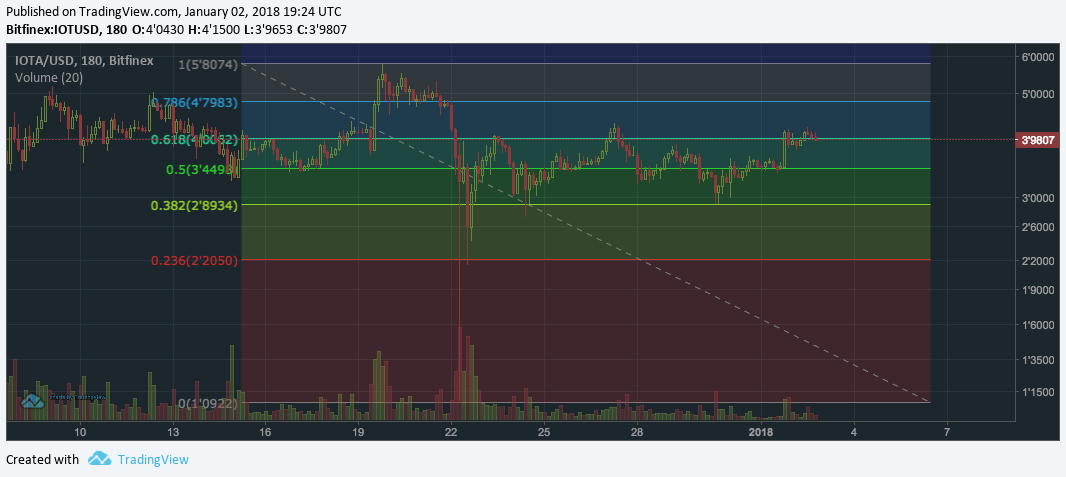
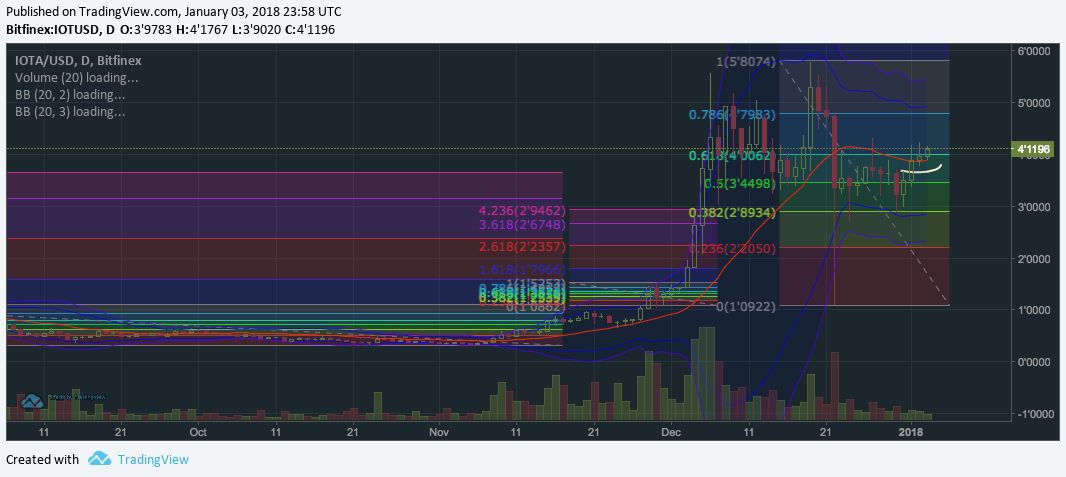
.

diff --git a/_layouts/review.html b/_layouts/review.html
@@ -1,0 +1,179 @@
+---
+layout: default-news
+---
+
+<div class="container">
+  <div class="row">
+
+   <div class="eight columns post-content">
+     <div class="shifted-left">
+       {{ site.ads.aads728 }}
+     </div>
+       {% if page.stories %}<div class="google-news-tag">{{ page.genres }}</div>&nbsp;{% endif %}
+       <span id="note">
+         {% if page.update %}<time datetime="{{ page.update | date_to_xmlschema }}">Last Update {{ page.update | date: "%d %b %Y at %R" }} UTC</time>.&nbsp;{% endif %}
+         Published <time datetime="{{ page.date | date_to_xmlschema }}">{{ page.date | date: "%d %b %Y at %R" }} UTC</time>
+         {% if page.author %}<span class="guest">&nbsp;&middot;&nbsp;By <a rel="nofollow" target="_blank" href="{{ page.author }}">{{ page.author_name }}</a></span>{% endif %}
+         {% if page.guest %}<span class="guest">&nbsp;&middot;&nbsp;Guest post by <a rel="nofollow" target="_blank" href="{{ page.author }}">{{ page.author_name }}</a></span>{% endif %}
+       </span>
+       <h4 class="post post-main">
+          <strong>
+            {{ page.title }}
+          </strong>
+        </h4>
+        {% if page.german %}
+          <h5 class="post post-main">
+            <a rel="nofollow" href="https://de.altcointrading.net/{{page.german}}">
+              READ THIS ARTICLE IN GERMAN
+            </a>
+          </h5>
+        {% endif %}
+        <br>
+        <article class="maincontent">
+          <div>
+            {% amp700 border {{page.image[0]}} {{page.image_alt[0]}} %}
+          </div>
+          <p>
+            <em>
+              Image: {{page.image_alt[0]}}
+            </em>
+          </p>
+          <p>
+            <em>
+              <a title="{{ site.title }} Subscribe" target="_blank" href="http://altcointrading.us15.list-manage1.com/subscribe?u=b5cca524e997c8e12f8ad51e1&id=9b56578f1c">Subscribe to the Altcoin Trading newsletter.</a> (Newsletter <a target="_blank" href="http://us15.campaign-archive1.com/home/?u=b5cca524e997c8e12f8ad51e1&id=9b56578f1c">Archive</a>)
+            </em>
+          </p>
+          <hr>
+          <div>
+            {{ site.ads.binance728 }}
+          </div>
+          <div>
+            {{ content | replace: 'Coinbase ', site.ref.coinbase | replace: 'BitMEX ', site.ref.bitmex | replace: 'Ledger wallet ', site.ref.ledger | replace: '<a href="http', '<a rel="nofollow" target="_blank" href="http' }}
+          </div>
+          {% if page.review %}
+          <div>
+            {% for item in page.review %}
+
+            {% if item.pic %}
+            <a rel="nofollow" target="_blank" href="{{item.link}}">
+            <figure class="border">
+              <amp-img itemprop="image" src="{{ item.pic }}" alt="{{item.name}} Review - Altcoin Trading" layout="responsive" width="700px" height="360px">
+              </amp-img>
+            </figure>
+            </a>
+            {% endif %}
+
+
+            <h4>{{ item.name }}</h4>
+
+            {% if item.rating %}<p><strong>Overall Rating:</strong> {{ item.rating }}</p>{% endif %}
+            {% if item.bestfor %}<p><strong>Best for:</strong> {{ item.bestfor }}</p>{% endif %}
+            {% if item.signup %}<p><strong>Sign-up:</strong> <a rel="nofollow" target="_blank" href="{{item.link}}">Sign up here.</a>&nbsp;{{ item.signup }}</p>{% endif %}
+            {% if item.comment %}<p>{{ item.comment }}</p>{% endif %}
+
+            <p>
+              <hr>
+            </p>
+
+            {% endfor %}
+          </div>
+          {% endif %}
+          <p>
+            <hr>
+          </p>
+          <p>
+            <em>
+              Join our Telegram group: <a title="{{ site.title }} Telegram" target="_blank" href="https://t.me/altcointrading_net"><i class="fa fa-telegram"></i> altcointrading_net</a>
+            </em>
+
+          </p>
+          <p>
+            <em>
+              Subreddit: <a title="{{ site.title }} Reddit" target="_blank" href="https://reddit.com/r/altcointrader"><i class="fa fa-reddit"></i> r/altcointrader</a>
+            </em>
+
+          </p>
+          <p>
+            <hr>
+            <ul class="social">
+              <li>
+                <a title="Share {{ page.title }} on Facebook" href="https://www.facebook.com/sharer.php?u={{ site.url }}{{ site.baseurl }}{{ page.url }}" title="Facebook" target="_blank">
+                  <i class="fa fa-facebook-square"></i>
+                </a>
+              </li>
+              <li>
+                <a title="Share {{ page.title }} on Twitter" href="https://twitter.com/share?url={{ site.url }}{{ site.baseurl }}{{ page.url }}" title="Twitter" target="_blank">
+                  <i class="fa fa-twitter-square"></i>
+                </a>
+              </li>
+              <li>
+                <a title="Share {{ page.title }} on Linkedin" href="https://www.linkedin.com/shareArticle?mini=true&url={{ site.url }}{{ site.baseurl }}{{ page.url }}" title="Linkedin" target="_blank">
+                  <i class="fa fa-linkedin-square"></i>
+                </a>
+              </li>
+            </ul>
+            <hr>
+            {% if page.stories %}
+            <p>
+              <a title="Author of {{ page.title }} {{ page.author }}" rel="nofollow" target="_blank" href="{{ page.author }}">Author</a> | Filed under <strong>{{ page.genres }}</strong> {% if page.tickers %}| Related tickers: <strong>{{ page.tickers }}</strong>{% endif %}
+            </p>
+
+            <script type="application/ld+json">
+            {
+              "@context": "http://schema.org",
+              "@type": "Person",
+              "name": "{{ page.author_name }}",
+              "url": "https://www.altcointrading.net",
+              "sameAs": [
+                "{{ page.author }}"
+              ]
+            }
+            </script>
+
+            {% endif %}
+            <p>
+              <a title="Typo {{ page.title }}" href="mailto:info@altcointrading.net">Report typo or misinformation</a>
+            </p>
+          </p>
+
+          {% if page.comments %}
+
+          <h4 class="post comment" id="disqus_embed">Comment on "{{ page.title }}"</h4>
+
+          <div id="disqus_thread"></div>
+          <script>
+
+          var disqus_config = function () {
+          this.page.url = "{{site.url}}{{page.url}}";  // Replace PAGE_URL with your page's canonical URL variable
+          this.page.identifier = "{{page.identifier}}"; // Replace PAGE_IDENTIFIER with your page's unique identifier variable
+          };
+
+          (function() { // DON'T EDIT BELOW THIS LINE
+          var d = document, s = d.createElement('script');
+          s.src = 'https://altcointrading.disqus.com/embed.js';
+          s.setAttribute('data-timestamp', +new Date());
+          (d.head || d.body).appendChild(s);
+          })();
+          </script>
+          <noscript>Please enable JavaScript to view the <a href="https://disqus.com/?ref_noscript">comments powered by Disqus.</a></noscript>
+
+          <p></p>
+
+          {% else %}
+
+          <p>&nbsp;</p>
+
+          <hr>
+
+          <p>Comments are disabled for this post.</p>
+
+          <hr>
+
+          {% endif %}
+
+        </article>
+    </div>
+    <div class="four columns nomargintop">
+      {% include sidebar.html %}
+    </div>
+  </div>

diff --git a/_includes/latestfibs.html b/_includes/latestfibs.html
@@ -5,13 +5,13 @@
   <div class="columns twelve">
     <h5 class="post">
       <strong>
-        <a class="sidebar-internal" target="_blank" title="{{ post.title }}" href="{{ site.baseurl }}{{ post.url }}">
+        <a class="sidebar-internal" title="{{ post.title }}" href="{{ site.baseurl }}{{ post.url }}">
           <span class="tag custom-note">TRADING</span>&nbsp;{{ post.title }}
         </a>
       </strong>
     </h5>
   </div>
-  <a class="sidebar-internal" target="_blank" href="{{ site.baseurl }}{{ post.url }}" title="{{ post.title }}">
+  <a class="sidebar-internal" href="{{ site.baseurl }}{{ post.url }}" title="{{ post.title }}">
    <div class="columns twelve relative">
     {% if post.image[0] %}
     <div class="twelve columns">

diff --git a/_layouts/fibs.html b/_layouts/fibs.html
@@ -63,6 +63,8 @@ layout: default-news
 
               <section>
 
+                <p>This is a new section on AltcoinTrading that will have only USD and BTC charts from Bitfinex for selected cryptocurrencies with Fib retracements drawn on them and some brief commentary. It's going to be updated often but it will stay under this current link so you can bookmark it to check for updates. The latest update date will always be in the headline.</p>
+
                 {{ content | replace: 'BitMEX ', site.ref.bitmex | replace: 'Ledger wallet ', site.ref.ledger | replace: '<a href="http', '<a rel="nofollow" target="_blank" href="http' }}
 
               </section>

diff --git a/_fibs/daily.md b/_fibs/daily.md
@@ -1,7 +1,7 @@
 ---
 published: true
 date: 2017-12-27 10:36:00 +0100
-update: 2018-01-03 01:32:00 +0100
+update: 2018-01-04 03:52:00 +0100
 
 layout: fibs
 title: "Fib Levels for Crypto Markets"
@@ -18,23 +18,24 @@ image: ["/strat/finexfibs.png"]
 
 dollars:
 
-- { market: "ETHUSD", chart: "/fibs/ethusd.png", comment: "ETH is still fighting the ATH resistance but you know that bull run usually doesn't stop there when a coin is bullish." }
-- { market: "XRPUSD", chart: "/fibs/xrpusd.png", comment: "XRP is going for it agai although it is moving along the stdev 2 bband which means the bull is weaker. Looking at shorter timeframes though, there will be a place to call tops but it's likely too soon just yet. There has been a rumor that Coinbase is going to list it, with how much it surged it will be interesting to see if they'll want to deal with another insider trading allegations." }
-- { market: "BTCUSD", chart: "/fibs/btcusd.png", comment: "Bitcoin started showing some bull momentum today, broke up through a first line of resistance and is hanging there at the moment. Next big decision will be whether it will break above the .618 fib (around 16.4k). By the way, watching Bitfinex orderbook has been fun today. Someone was really going for it." }
-- { market: "IOTUSD", chart: "/fibs/iotusd.png", comment: "IOTA is waking up, let's see how it holds." }
+- { market: "ETHUSD", chart: "/fibs/ethusd.png", comment: "Broke out and trading above $900. Next fib stop is at $1091." }
+- { market: "XRPUSD", chart: "/fibs/xrpusd.png", comment: "Ripple broke up above the next fib resistance. It should now consolidate a bit." }
+- { market: "BTCUSD", chart: "/fibs/btcusd.png", comment: "Bitcoin dumped on the news about China a bit, and has just about recovered. The market is not at its strongest and currently sitting under plenty of resistance (and under the MA in the center of the bbands on 1D)." }
+- { market: "IOTUSD", chart: "/fibs/iotusd.png", comment: "IOTA is still waking up, so far holding the positive trend. The moving average (bbands middle band) is curving up on the daily which is bullish, the consolidation phase should be soon over. It is also the place where some bots detect the curving and start going long before everybody else does on a confirmation so this is an ideal place for some FOMO pump and then some stop-hunt." }
+- { market: "NEOUSD", chart: "/fibs/neousd.png", comment: "Someone commented I should add NEO, here it is. So, NEO has broken ATH resistance and retraced to confirm it - very bullish. The next fib is roughly at $116 however the market surged too fast. These coins will have this 'joint action' together with ETH and perhaps EOS for some time, maybe for the all of 2018 - the action is based on similarity of attributes of those coins: The value propositions are similar but there are no clear signs as to which one is the actual leader. Technically, it is usually a good place for a bit of sideways when the daily comes over the outer bband (stdev 3)." }
 ratios:
-- { market: "ETHBTC", chart: "/fibs/ethbtc.png", comment: "The ratio retraced when BTC started surging couple hours ago but it didn't go below that fib it just broke, it merely retested it and bounced. That's positive." }
+- { market: "ETHBTC", chart: "/fibs/ethbtc.png", comment: "Making new highs, trend is positive. Next stops for some consolidation are (roughly) 0.07, 0.08 and 0.09." }
+- { market: "EOSBTC", chart: "/fibs/eosbtc.png", comment: "Update on EOS - the trend of the BTC ratio is still positive but still not out of the woods: that resistance hasn't been broken." }
 ---
 
 
-This is a new section on AltcoinTrading that will have only USD and BTC charts from Bitfinex for selected cryptocurrencies with Fib retracements drawn on them and some brief commentary. It's going to be updated often but it will stay under this current link so you can bookmark it to check for updates. The latest update date will always be in the headline.
-
 > Relevant news for today
 
-* There's a [new subreddit dedicated to Bitcoin forks](https://www.reddit.com/r/BitcoinScamCoins/)
-* CNBC claims bitcoin surged on the [Peter Thiel news](https://www.cnbc.com/2018/01/02/bitcoin-rises-after-report-says-early-facebook-investor-peter-thiel-is-buying-massive-amounts.html) (about his BTC investments)
-* Traders claim bitcoin surged because of a technical opportunity on the 4H chart that had bots and traders trying to frontrun each other...plus there was some short covering
-* Some traders also think it's worth mentioning how some news get published not exactly when they are news but rather when the technical situation is favorable
+* There has been a new Chinese FUD, this time [the government is allegedly going to go against mining](https://mp.weixin.qq.com/s?__biz=MzIyNDk1NzU4OA==&mid=2247484848&idx=1&sn=4c3d3d84d55db52a5f7fac9d07fdc7bb&chksm=e806404bdf71c95d1e50b0fc6e6edcb9acd0f97954e57de85767f3849e94acecc09f071fa411&mpshare=1&scene=1&srcid=0103SSs3kybK46Vy7LeHkaVo&pass_ticket=m6yUJZX%2Bzl5W6cfbT5IgyAmlnqN%2B%2BzJnAnqd2ve8UmDrnGno9BkBLrHcNlXw09c5#rd)
+* A whole [bunch of new bitcoin ETF filings are open for 2018](https://www.reddit.com/r/BitcoinMarkets/comments/7ns3xw/daily_discussion_wednesday_january_03_2018/ds4axr4/) for NASDAQ, NYSE Arca and CBOE. The first deadline for rule chain approval/delay is March 26 2018
+* EtherDelta, a decentralized exchange that got hacked in December, [is issuing in ICO](https://medium.com/@terryliu_71238/in-order-to-protect-etherdelta-users-and-investors-benefit-we-have-decided-that-during-the-bd33464dbca0)
 * On Tuesday 6PM ET [E-Trade added both CME and CBOE bitcoin futures trading](https://us.etrade.com/what-we-offer/investment-choices/futures#tab2_8)
+* There's a [new subreddit dedicated to Bitcoin forks](https://www.reddit.com/r/BitcoinScamCoins/)
+
 
 Links to the last trade & settlement dates for both CME and CBOE futures are in the sidebar. **There can be some unusual action on the BTCUSD markets during those times which can mess with the altcoin ratios** so don't ignore that.

diff --git a/_posts/2017-12-30-new-exchanges.md b/_posts/2017-12-30-new-exchanges.md
@@ -1,10 +1,12 @@
 ---
-published: false
+layout: review
+
+published: true
 
 guest: false
 
-date: 2017-12-30 00:12:00 +0100
-update: 2017-12-30 01:12:00 +0100
+date: 2018-01-04 00:12:00 +0100
+update: 2018-01-04 02:34:00 +0100
 
 
 author: https://reddit.com/u/KarlVonBahnhof
@@ -17,22 +19,31 @@ stories: false
 note: 'User Guide'
 genres: Blog
 
-layout: forestry
 german: false
 tickers: false
 
-title: "Update for 2018: Smaller cryptocurrency exchanges good for trading"
-description: ""
+title: "Update for 2018: Smaller cryptocurrency exchanges for trading"
+description: "Find new emerging cryptocurrency exchanges for your altcoin trading in 2018 (and avoid potential drama)."
 
 permalink: "/exchanges-2018"
 image:
-- "/features/newcrypto.jpg"
+- "/editorial/flying.jpg"
 
 image_alt:
-- ""
+- "Find new emerging cryptocurrency exchanges for your altcoin trading in 2018. Flying image via Pexels."
 categories:
 - basics
 - coins
 chart: []
 tags: ["crypto-trading", "cryptocurrency-exchanges", "altcoin-trading"]
+
+review:
+- {name: "Binance", rating: "GREAT", bestfor: "Trading small altcoins. They have regular additions of new coins (one a month) and users can vote which coins they want added.", signup: "Open, no verification necessary but they limit withdrawal to 1 BTC worth per day without verification.", comment: "Binance is where eager shitcoin traders and P&D groups migrate from Polo and Trex. If you are looking to trade a coin that is just about to be hyped up, changes are it's on Binance. There also sometimes happen to be opportunities for manual arb between Binance and some of the bigger crypto exchanges.", link: "https://www.binance.com/?ref=15980293", pic: "/features/2018/binance.png"}
+- {name: "Mercatox", rating: "GOOD", bestfor: "Trading small coins, moving fiat in and out via e-wallets (OkPay).", comment: "Mercatox is the next place to go if you aren't trading the coin of the day on Binance, or perhaps if you are up for some arb. The site has been cranky lately but they are working on it. They've signed up insane amount of new accounts over the past weeks.", signup: "Open. Big influx of new people currently. Verification is not necessary but withdrawals are limited to 0.5 BTC worth a day without.", link: "https://mercatox.com/?referrer=137469"}
+- {name: "BitFlip", rating: "OK", bestfor: "Trading emerging coins like RaiBlocks, fiat transfers in or out via e-wallets (Payeer, WebMoney, AdvCash) or directly to a VISA card (with expensive fees). Trading costs only 0.1% maker and 0.18% taker though, which is very nice.", comment: "Small exchange with oldschool charting that will freeze during high loads. It is a new place but it looks like something from 2013, and it has a trollbox. The company is based in the UK but the website and selection of fiat currencies looks very Russia-oriented. There have been some scam accusations on bitcointalk.", signup: "Open.", link: "https://bitflip.li/?ref=16sdsmzkzhec", pic: "/features/2018/bitflip.png"}
+- {name: "CoinFloor", rating: "GREAT", bestfor: "Buy&hold, buying and selling for GBP", comment: "Coinfloor is a London-based exchange that has currently the most liquid GBP markets for BTC, BCH, ETH, ETC, LTC and XRP. For bitcoin they also added EUR, PLN and USD markets and they provide a desktop GUI for advanced trading via their API. They aim to be secure and transparent with public audits, professional brokers and decent customer service, all of which is a nice change for once. The fee is 0.3% maker taker, which is a lot, but they also have an OTC desk. The exchange rep Mark is on Reddit as u/Mark_Coinfloor. Coinfloor is VC backed by the co-founder of TransferWise Taavet Hinrikus and Adam Knight, the former MD of Goldman Sachs.", signup: "Open. Needs ID verification. Currently they have taken down the list of country residencies they allow and redirect new users directly to signup form and ID verification. They are also open to corporate accounts.", pic: "/features/2018/coinfloor.png", link: "https://coinfloor.co.uk"}
+- {name: "Coinmate", rating: "GREAT", bestfor: "Cashing out in EUR via SEPA transfer, Coinmate is not an exchange for advanced trading. BTC, LTC and BCH markets.", signup: "Open. For fiat transfers they require video verification. Since December 2017 there has been a lot of new users and because the verification takes some time, be prepared to wait in queue for at least in hour.", comment: "This post is meant to compare cryptocurrency exchanges for trading but cashing out is vital for people who trade the fiat pairs. If you aren't willing to have your fiat balance sitting on an exchange (it really isn't the best you can do) you can either stick it to Bitfinex for lending, if you already have an account there since signups are still closed at the time of writing, or you will need to go through the process of moving your fiat to a bank. Coinmate only has BTCEUR market (and crypto markets for LTC and BCH). If you don't have an EUR bank account you might want to look up Revolut or similar apps and see if you can manage this either as an individual or by creating a company based in Europe. At the very least, put this on your bucket list of things to do when you cannot find an opportunity for a trade. It's slightly more productive than arguing with Reddit trolls and remember, you need to have this set up before you make that profit to move around.", link: "https://coinmate.io/?referral=UVdneFZXd3hiVTVaV2s5YVlXSnNlazV4Um5ScGR3PT0", pic: "/features/2018/coinmate.png"}
+
 ---
+
+Lorem ipsum dolor sit amet, consectetur adipisicing elit, sed do eiusmod tempor incididunt ut labore et dolore magna aliqua. Ut enim ad minim veniam, quis nostrud exercitation ullamco laboris nisi ut aliquip ex ea commodo consequat. Duis aute irure dolor in reprehenderit in voluptate velit esse cillum dolore eu fugiat nulla pariatur. Excepteur sint occaecat cupidatat non proident, sunt in culpa qui officia deserunt mollit anim id est laborum.
